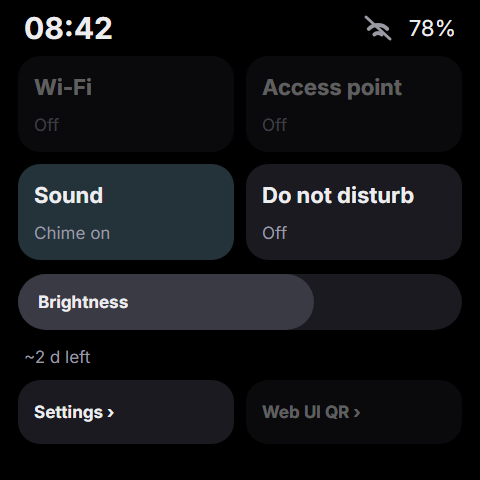
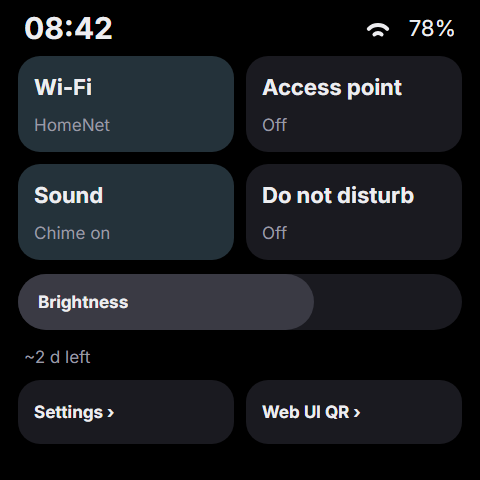
Redraw the quick settings and Home mockups and add Wi-Fi, access point and pairing screens, add the web UI screenshot

diff --git a/design/mockups/screens.html b/design/mockups/screens.html
@@ -61,22 +61,22 @@
 
   <div class="item">
     <div class="dev">
-      <div class="bar"><div class="grab"></div><span class="a tm f30">08:42</span><div class="rt"><svg width="30" height="24" viewBox="0 0 30 24" style="margin-right:16px" fill="none" stroke="#9A9AA4" stroke-linecap="round"><path d="M5.81 12.81 A13 13 0 0 1 24.19 12.81" stroke-width="4"/><path d="M11.46 18.46 A5 5 0 0 1 18.54 18.46" stroke-width="4"/><path d="M3 1 L27 23" stroke-width="3"/></svg><svg width="12" height="18" viewBox="0 0 12 18" style="margin-right:6px"><polygon points="8,0 1,10 7,10" fill="#EDEDF0"/><polygon points="5,7 11,7 4,17" fill="#EDEDF0"/></svg><span class="pct f22">78%</span></div></div>
+      <div class="bar"><div class="grab"></div><span class="a tm f30">08:42</span><div class="rt"><svg width="30" height="24" viewBox="0 0 30 24" style="margin-right:16px" fill="none" stroke="#EDEDF0" stroke-linecap="round"><path d="M5.81 12.81 A13 13 0 0 1 24.19 12.81" stroke-width="4"/><path d="M11.46 18.46 A5 5 0 0 1 18.54 18.46" stroke-width="4"/></svg><svg width="12" height="18" viewBox="0 0 12 18" style="margin-right:6px"><polygon points="8,0 1,10 7,10" fill="#EDEDF0"/><polygon points="5,7 11,7 4,17" fill="#EDEDF0"/></svg><span class="pct f22">78%</span></div></div>
       <div class="tile" style="left:22px;top:64px"><div class="ring" style="left:47px;top:16px;width:116px;height:116px;background:conic-gradient(#4FD1C5 0 62%, #1A1A20 0)"></div><div class="disc" style="left:58px;top:27px;width:94px;height:94px"></div><span class="a f52 c" style="left:0;width:210px;top:45px;color:#4FD1C5">A</span><span class="a c f17 t2" style="left:0;width:210px;top:142px;">2&nbsp;h 14&nbsp;m ago</span></div><div class="tile" style="left:248px;top:64px"><div class="ring" style="left:47px;top:16px;width:116px;height:116px;background:conic-gradient(#F6C453 0 100%, #1A1A20 0)"></div><div class="disc" style="left:58px;top:27px;width:94px;height:94px"></div><span class="a f52 c" style="left:0;width:210px;top:45px;color:#F6C453">V</span><span class="a c f17b" style="left:0;width:210px;top:141.5px;color:#F6C453">Due now</span><div class="bd" style="border-color:#F6C453"></div></div><div class="tile" style="left:22px;top:260px"><div class="ring" style="left:47px;top:16px;width:116px;height:116px;background:conic-gradient(#A78BFA 0 25%, #1A1A20 0)"></div><div class="disc" style="left:58px;top:27px;width:94px;height:94px"></div><span class="a f52 c" style="left:0;width:210px;top:45px;color:#A78BFA">M</span><span class="a c f17 t2" style="left:0;width:210px;top:142px;">as needed</span></div><div class="tile" style="left:248px;top:260px;background:#0B0B0E"><span class="a f44 c t2" style="left:0;width:210px;top:63px">+</span></div>
       <div class="dots"><i class="on"></i><i></i><i></i></div>
       <span class="arrow" style="right:6px;top:220px">← Overview</span>
       <span class="arrow" style="left:170px;top:62px">↓ Quick settings</span>
     </div>
-    <h3>1 · Home</h3><p>Two tiles per row, scrolling vertically. The ring shows the time from the last dose towards the next; a due tile gets a full ring and a coloured outline. The "+" tile opens the form that adds a medicine. The Wi-Fi mark is crossed out because Wi-Fi is not built yet; the bolt shows USB power.</p>
+    <h3>1 · Home</h3><p>Two tiles per row, scrolling vertically. The ring shows the time from the last dose towards the next; a due tile gets a full ring and a coloured outline. The "+" tile opens the form that adds a medicine. The top bar shows two arcs while the device is on a network (grey crossed arcs when Wi-Fi is off, an AP badge in access point mode). The bolt shows USB power.</p>
   </div>
 
   <div class="item">
     <div class="dev">
-      <div class="bar"><span class="a tm f30">08:42</span><div class="rt"><svg width="30" height="24" viewBox="0 0 30 24" style="margin-right:16px" fill="none" stroke="#9A9AA4" stroke-linecap="round"><path d="M5.81 12.81 A13 13 0 0 1 24.19 12.81" stroke-width="4"/><path d="M11.46 18.46 A5 5 0 0 1 18.54 18.46" stroke-width="4"/><path d="M3 1 L27 23" stroke-width="3"/></svg><span class="pct f22">78%</span></div></div>
-      <div class="q" style="left:18px;top:56px;opacity:.4"><span class="a f22b" style="left:16px;top:18px">Wi-Fi</span><span class="a f17 t2" style="left:16px;top:58px">Off</span></div><div class="q" style="left:246px;top:56px;opacity:.4"><span class="a f22b" style="left:16px;top:18px">Access point</span><span class="a f17 t2" style="left:16px;top:58px">Off</span></div><div class="q on" style="left:18px;top:164px;"><span class="a f22b" style="left:16px;top:18px">Sound</span><span class="a f17 t2" style="left:16px;top:58px">Chime on</span></div><div class="q" style="left:246px;top:164px;"><span class="a f22b" style="left:16px;top:18px">Do not disturb</span><span class="a f17 t2" style="left:16px;top:58px">Off</span></div><div class="a" style="left:18px;top:274px;width:444px;height:56px;border-radius:28px;background:#1A1A20"></div><div class="a" style="left:18px;top:274px;width:296px;height:56px;border-radius:28px;background:#3A3A44"></div><span class="a f17b" style="left:38px;top:290.5px">Brightness</span><span class="a f17 t2" style="left:24px;top:346px">~2&nbsp;d left</span><div class="btn" style="left:18px;top:380px;width:216px;height:64px"><span class="f17b" style="margin-left:16px">Settings ›</span></div><div class="btn" style="left:246px;top:380px;width:216px;height:64px;opacity:.4"><span class="f17b" style="margin-left:16px">Web UI QR ›</span></div>
+      <div class="bar"><span class="a tm f30">08:42</span><div class="rt"><svg width="30" height="24" viewBox="0 0 30 24" style="margin-right:16px" fill="none" stroke="#EDEDF0" stroke-linecap="round"><path d="M5.81 12.81 A13 13 0 0 1 24.19 12.81" stroke-width="4"/><path d="M11.46 18.46 A5 5 0 0 1 18.54 18.46" stroke-width="4"/></svg><span class="pct f22">78%</span></div></div>
+      <div class="q on" style="left:18px;top:56px"><span class="a f22b" style="left:16px;top:18px">Wi-Fi</span><span class="a f17 t2" style="left:16px;top:58px">HomeNet</span></div><div class="q" style="left:246px;top:56px"><span class="a f22b" style="left:16px;top:18px">Access point</span><span class="a f17 t2" style="left:16px;top:58px">Off</span></div><div class="q on" style="left:18px;top:164px;"><span class="a f22b" style="left:16px;top:18px">Sound</span><span class="a f17 t2" style="left:16px;top:58px">Chime on</span></div><div class="q" style="left:246px;top:164px;"><span class="a f22b" style="left:16px;top:18px">Do not disturb</span><span class="a f17 t2" style="left:16px;top:58px">Off</span></div><div class="a" style="left:18px;top:274px;width:444px;height:56px;border-radius:28px;background:#1A1A20"></div><div class="a" style="left:18px;top:274px;width:296px;height:56px;border-radius:28px;background:#3A3A44"></div><span class="a f17b" style="left:38px;top:290.5px">Brightness</span><span class="a f17 t2" style="left:24px;top:346px">~2&nbsp;d left</span><div class="btn" style="left:18px;top:380px;width:216px;height:64px"><span class="f17b" style="margin-left:16px">Settings ›</span></div><div class="btn" style="left:246px;top:380px;width:216px;height:64px"><span class="f17b" style="margin-left:16px">Web UI QR ›</span></div>
       <span class="arrow" style="left:170px;bottom:10px">↑ close</span>
     </div>
-    <h3>2 · Quick settings (pull down)</h3><p>Sound and Do not disturb toggle. Wi-Fi, Access point and Web UI QR are dimmed placeholders until Wi-Fi is built. The brightness slider carries its name. The battery line shows only a discharge estimate and is hidden on USB power.</p>
+    <h3>2 · Quick settings (pull down)</h3><p>Wi-Fi and Access point start and stop the radio. A tile is lit while its mode is on and its second line shows the state. Sound and Do not disturb toggle. The brightness slider carries its name. The battery line shows only a discharge estimate and is hidden on USB power. Web UI QR shows the address of the web UI as a QR code.</p>
   </div>
 
   <div class="item">
@@ -127,6 +127,43 @@
       <span class="a f120 t2 c" style="left:0;width:480px;top:161px">08:44</span><span class="a f22 t2 c" style="left:0;width:480px;top:291px">Next: A at 14:00</span><span class="a f17 t2 c" style="left:0;width:480px;top:339px">78% · Wi-Fi off</span>
     </div>
     <h3>8 · Idle / dimmed</h3><p>After 30 s: dim grey clock and next dose, with the battery percent and Wi-Fi state below. The group moves a few pixels each minute against burn-in. Tap to wake. On battery the screen turns off after a further delay.</p>
+  </div>
+
+<div class="item">
+    <div class="dev">
+      <div class="bar"><span class="a tm f30">08:42</span><div class="rt"><span class="f17b" style="width:36px;height:24px;border:1px solid #9A9AA4;border-radius:6px;display:flex;align-items:center;justify-content:center;margin-right:16px">AP</span><svg width="12" height="18" viewBox="0 0 12 18" style="margin-right:6px"><polygon points="8,0 1,10 7,10" fill="#EDEDF0"/><polygon points="5,7 11,7 4,17" fill="#EDEDF0"/></svg><span class="pct f22">78%</span></div></div><div class="q" style="left:18px;top:56px"><span class="a f22b" style="left:16px;top:18px">Wi-Fi</span><span class="a f17 t2" style="left:16px;top:58px">Off</span></div><div class="q on" style="left:246px;top:56px"><span class="a f22b" style="left:16px;top:18px">Access point</span><span class="a f17 t2" style="left:16px;top:58px">On</span></div><div class="q on" style="left:18px;top:164px"><span class="a f22b" style="left:16px;top:18px">Sound</span><span class="a f17 t2" style="left:16px;top:58px">Chime on</span></div><div class="q" style="left:246px;top:164px"><span class="a f22b" style="left:16px;top:18px">Do not disturb</span><span class="a f17 t2" style="left:16px;top:58px">Off</span></div><div class="a" style="left:18px;top:274px;width:444px;height:56px;border-radius:28px;background:#1A1A20"></div><div class="a" style="left:18px;top:274px;width:296px;height:56px;border-radius:28px;background:#3A3A44"></div><span class="a f17b" style="left:38px;top:290.5px">Brightness</span><div class="btn" style="left:18px;top:380px;width:216px;height:64px"><span class="f17b" style="margin-left:16px">Settings ›</span></div><div class="btn" style="left:246px;top:380px;width:216px;height:64px"><span class="f17b" style="margin-left:16px">Web UI QR ›</span></div>
+    </div>
+    <h3>9 · Quick settings, access point on</h3><p>The Access point tile is lit and the top bar shows the AP badge in place of the arcs. The access point runs on USB power unless Keep Wi-Fi on battery is on, so the bolt shows and the battery line is hidden.</p>
+  </div>
+<div class="item">
+    <div class="dev">
+      <div class="bar"><span class="a tm f30">08:42</span><div class="rt"><svg width="30" height="24" viewBox="0 0 30 24" style="margin-right:16px" fill="none" stroke="#EDEDF0" stroke-linecap="round"><path d="M5.81 12.81 A13 13 0 0 1 24.19 12.81" stroke-width="4"/><path d="M11.46 18.46 A5 5 0 0 1 18.54 18.46" stroke-width="4"/></svg><span class="pct f22">78%</span></div></div><span class="a f26" style="left:24px;top:58px;">Wi-Fi</span><div class="a" style="left:18px;top:100px;width:140px;height:66px;border-radius:22px;background:#1A1A20;display:flex;align-items:center;justify-content:center"><span class="f17b">Off</span></div><div class="a" style="left:170px;top:100px;width:140px;height:66px;border-radius:22px;background:#24323A;border:2px solid #EDEDF0;display:flex;align-items:center;justify-content:center"><span class="f17b">Wi-Fi</span></div><div class="a" style="left:322px;top:100px;width:140px;height:66px;border-radius:22px;background:#1A1A20;display:flex;align-items:center;justify-content:center"><span class="f17b">Access point</span></div><span class="a f17 t2" style="left:18px;top:178px;">Saved networks</span><div class="a" style="left:18px;top:212px;width:444px;height:56px;border-radius:22px;background:#121216"></div><span class="a f22" style="left:40px;top:226.0px;">HomeNet</span><span class="a f17" style="right:40px;top:229.0px;color:#7CE38B">Connected</span><span class="a f17 t2" style="left:18px;top:280px;">Add networks in the web UI</span><div class="a" style="left:18px;top:314px;width:444px;height:66px;border-radius:22px;background:#121216"></div><span class="a f22" style="left:40px;top:333.0px;">Access point</span><span class="a f17" style="right:40px;top:336.0px;color:#9A9AA4">Off</span><div class="a" style="left:18px;top:392px;width:444px;height:66px;border-radius:22px;background:#121216"></div><span class="a f22" style="left:40px;top:411.0px;">Web UI address</span><span class="a f17" style="right:40px;top:414.0px;color:#9A9AA4">http://192.168.1.23</span>
+    </div>
+    <h3>10 · Settings, Wi-Fi</h3><p>The mode row (Off, Wi-Fi, Access point) outlines the saved mode. Below it come the saved networks, the access point and the web UI address. Scroll down for the paired browsers with Forget all and the Keep Wi-Fi on battery switch. Networks are added in the web UI.</p>
+  </div>
+<div class="item">
+    <div class="dev">
+      <div class="bar"><span class="a tm f30">08:42</span><div class="rt"><svg width="30" height="24" viewBox="0 0 30 24" style="margin-right:16px" fill="none" stroke="#EDEDF0" stroke-linecap="round"><path d="M5.81 12.81 A13 13 0 0 1 24.19 12.81" stroke-width="4"/><path d="M11.46 18.46 A5 5 0 0 1 18.54 18.46" stroke-width="4"/></svg><span class="pct f22">78%</span></div></div><span class="a f26" style="left:24px;top:58px;">Web UI</span><svg class="a" style="left:118px;top:100px" width="244" height="244" viewBox="0 0 244 244" shape-rendering="crispEdges"><rect width="244" height="244" rx="8" fill="#EDEDF0"/><g transform="translate(12 12) scale(8.8)"><path d="M0 0h1v1h-1zM1 0h1v1h-1zM2 0h1v1h-1zM3 0h1v1h-1zM4 0h1v1h-1zM5 0h1v1h-1zM6 0h1v1h-1zM8 0h1v1h-1zM10 0h1v1h-1zM13 0h1v1h-1zM16 0h1v1h-1zM18 0h1v1h-1zM19 0h1v1h-1zM20 0h1v1h-1zM21 0h1v1h-1zM22 0h1v1h-1zM23 0h1v1h-1zM24 0h1v1h-1zM0 1h1v1h-1zM6 1h1v1h-1zM11 1h1v1h-1zM12 1h1v1h-1zM13 1h1v1h-1zM18 1h1v1h-1zM24 1h1v1h-1zM0 2h1v1h-1zM2 2h1v1h-1zM3 2h1v1h-1zM4 2h1v1h-1zM6 2h1v1h-1zM8 2h1v1h-1zM9 2h1v1h-1zM10 2h1v1h-1zM11 2h1v1h-1zM12 2h1v1h-1zM13 2h1v1h-1zM14 2h1v1h-1zM18 2h1v1h-1zM20 2h1v1h-1zM21 2h1v1h-1zM22 2h1v1h-1zM24 2h1v1h-1zM0 3h1v1h-1zM2 3h1v1h-1zM3 3h1v1h-1zM4 3h1v1h-1zM6 3h1v1h-1zM11 3h1v1h-1zM13 3h1v1h-1zM15 3h1v1h-1zM18 3h1v1h-1zM20 3h1v1h-1zM21 3h1v1h-1zM22 3h1v1h-1zM24 3h1v1h-1zM0 4h1v1h-1zM2 4h1v1h-1zM3 4h1v1h-1zM4 4h1v1h-1zM6 4h1v1h-1zM9 4h1v1h-1zM11 4h1v1h-1zM13 4h1v1h-1zM16 4h1v1h-1zM18 4h1v1h-1zM20 4h1v1h-1zM21 4h1v1h-1zM22 4h1v1h-1zM24 4h1v1h-1zM0 5h1v1h-1zM6 5h1v1h-1zM8 5h1v1h-1zM9 5h1v1h-1zM10 5h1v1h-1zM11 5h1v1h-1zM13 5h1v1h-1zM16 5h1v1h-1zM18 5h1v1h-1zM24 5h1v1h-1zM0 6h1v1h-1zM1 6h1v1h-1zM2 6h1v1h-1zM3 6h1v1h-1zM4 6h1v1h-1zM5 6h1v1h-1zM6 6h1v1h-1zM8 6h1v1h-1zM10 6h1v1h-1zM12 6h1v1h-1zM14 6h1v1h-1zM16 6h1v1h-1zM18 6h1v1h-1zM19 6h1v1h-1zM20 6h1v1h-1zM21 6h1v1h-1zM22 6h1v1h-1zM23 6h1v1h-1zM24 6h1v1h-1zM10 7h1v1h-1zM11 7h1v1h-1zM14 7h1v1h-1zM0 8h1v1h-1zM2 8h1v1h-1zM6 8h1v1h-1zM7 8h1v1h-1zM9 8h1v1h-1zM11 8h1v1h-1zM14 8h1v1h-1zM15 8h1v1h-1zM19 8h1v1h-1zM22 8h1v1h-1zM24 8h1v1h-1zM1 9h1v1h-1zM2 9h1v1h-1zM7 9h1v1h-1zM9 9h1v1h-1zM10 9h1v1h-1zM13 9h1v1h-1zM15 9h1v1h-1zM17 9h1v1h-1zM18 9h1v1h-1zM21 9h1v1h-1zM23 9h1v1h-1zM24 9h1v1h-1zM0 10h1v1h-1zM2 10h1v1h-1zM3 10h1v1h-1zM4 10h1v1h-1zM6 10h1v1h-1zM7 10h1v1h-1zM12 10h1v1h-1zM15 10h1v1h-1zM16 10h1v1h-1zM17 10h1v1h-1zM18 10h1v1h-1zM20 10h1v1h-1zM21 10h1v1h-1zM22 10h1v1h-1zM24 10h1v1h-1zM1 11h1v1h-1zM2 11h1v1h-1zM3 11h1v1h-1zM4 11h1v1h-1zM5 11h1v1h-1zM7 11h1v1h-1zM9 11h1v1h-1zM10 11h1v1h-1zM11 11h1v1h-1zM14 11h1v1h-1zM15 11h1v1h-1zM16 11h1v1h-1zM18 11h1v1h-1zM20 11h1v1h-1zM21 11h1v1h-1zM2 12h1v1h-1zM3 12h1v1h-1zM4 12h1v1h-1zM6 12h1v1h-1zM8 12h1v1h-1zM10 12h1v1h-1zM11 12h1v1h-1zM13 12h1v1h-1zM14 12h1v1h-1zM16 12h1v1h-1zM17 12h1v1h-1zM18 12h1v1h-1zM24 12h1v1h-1zM2 13h1v1h-1zM4 13h1v1h-1zM5 13h1v1h-1zM7 13h1v1h-1zM8 13h1v1h-1zM10 13h1v1h-1zM13 13h1v1h-1zM15 13h1v1h-1zM18 13h1v1h-1zM23 13h1v1h-1zM24 13h1v1h-1zM0 14h1v1h-1zM1 14h1v1h-1zM2 14h1v1h-1zM3 14h1v1h-1zM4 14h1v1h-1zM6 14h1v1h-1zM7 14h1v1h-1zM8 14h1v1h-1zM9 14h1v1h-1zM10 14h1v1h-1zM11 14h1v1h-1zM15 14h1v1h-1zM16 14h1v1h-1zM20 14h1v1h-1zM21 14h1v1h-1zM22 14h1v1h-1zM24 14h1v1h-1zM2 15h1v1h-1zM7 15h1v1h-1zM13 15h1v1h-1zM18 15h1v1h-1zM0 16h1v1h-1zM1 16h1v1h-1zM2 16h1v1h-1zM3 16h1v1h-1zM4 16h1v1h-1zM5 16h1v1h-1zM6 16h1v1h-1zM8 16h1v1h-1zM10 16h1v1h-1zM11 16h1v1h-1zM12 16h1v1h-1zM13 16h1v1h-1zM16 16h1v1h-1zM17 16h1v1h-1zM18 16h1v1h-1zM19 16h1v1h-1zM20 16h1v1h-1zM23 16h1v1h-1zM8 17h1v1h-1zM10 17h1v1h-1zM12 17h1v1h-1zM15 17h1v1h-1zM16 17h1v1h-1zM20 17h1v1h-1zM22 17h1v1h-1zM24 17h1v1h-1zM0 18h1v1h-1zM1 18h1v1h-1zM2 18h1v1h-1zM3 18h1v1h-1zM4 18h1v1h-1zM5 18h1v1h-1zM6 18h1v1h-1zM8 18h1v1h-1zM9 18h1v1h-1zM10 18h1v1h-1zM12 18h1v1h-1zM13 18h1v1h-1zM14 18h1v1h-1zM16 18h1v1h-1zM18 18h1v1h-1zM20 18h1v1h-1zM21 18h1v1h-1zM24 18h1v1h-1zM0 19h1v1h-1zM6 19h1v1h-1zM10 19h1v1h-1zM11 19h1v1h-1zM12 19h1v1h-1zM14 19h1v1h-1zM16 19h1v1h-1zM20 19h1v1h-1zM0 20h1v1h-1zM2 20h1v1h-1zM3 20h1v1h-1zM4 20h1v1h-1zM6 20h1v1h-1zM10 20h1v1h-1zM13 20h1v1h-1zM14 20h1v1h-1zM15 20h1v1h-1zM16 20h1v1h-1zM17 20h1v1h-1zM18 20h1v1h-1zM19 20h1v1h-1zM20 20h1v1h-1zM21 20h1v1h-1zM24 20h1v1h-1zM0 21h1v1h-1zM2 21h1v1h-1zM3 21h1v1h-1zM4 21h1v1h-1zM6 21h1v1h-1zM9 21h1v1h-1zM13 21h1v1h-1zM14 21h1v1h-1zM16 21h1v1h-1zM19 21h1v1h-1zM20 21h1v1h-1zM21 21h1v1h-1zM22 21h1v1h-1zM23 21h1v1h-1zM0 22h1v1h-1zM2 22h1v1h-1zM3 22h1v1h-1zM4 22h1v1h-1zM6 22h1v1h-1zM8 22h1v1h-1zM9 22h1v1h-1zM10 22h1v1h-1zM11 22h1v1h-1zM16 22h1v1h-1zM19 22h1v1h-1zM20 22h1v1h-1zM23 22h1v1h-1zM24 22h1v1h-1zM0 23h1v1h-1zM6 23h1v1h-1zM13 23h1v1h-1zM15 23h1v1h-1zM16 23h1v1h-1zM19 23h1v1h-1zM20 23h1v1h-1zM0 24h1v1h-1zM1 24h1v1h-1zM2 24h1v1h-1zM3 24h1v1h-1zM4 24h1v1h-1zM5 24h1v1h-1zM6 24h1v1h-1zM8 24h1v1h-1zM11 24h1v1h-1zM12 24h1v1h-1zM13 24h1v1h-1zM15 24h1v1h-1zM16 24h1v1h-1zM18 24h1v1h-1zM21 24h1v1h-1zM24 24h1v1h-1z" fill="#000"/></g></svg><span class="a f22 c" style="left:0px;top:354px;width:480px">http://192.168.1.23</span><span class="a f22 c t2" style="left:0px;top:386px;width:480px">hygeia.local</span>
+    </div>
+    <h3>11 · Web UI QR (from quick settings)</h3><p>On a network, the QR code of the web UI with the address and the host name under it.</p>
+  </div>
+<div class="item">
+    <div class="dev">
+      <div class="bar"><span class="a tm f30">08:42</span><div class="rt"><span class="f17b" style="width:36px;height:24px;border:1px solid #9A9AA4;border-radius:6px;display:flex;align-items:center;justify-content:center;margin-right:16px">AP</span><svg width="12" height="18" viewBox="0 0 12 18" style="margin-right:6px"><polygon points="8,0 1,10 7,10" fill="#EDEDF0"/><polygon points="5,7 11,7 4,17" fill="#EDEDF0"/></svg><span class="pct f22">78%</span></div></div><span class="a f26" style="left:24px;top:58px;">Join the device's Wi-Fi</span><svg class="a" style="left:118px;top:100px" width="244" height="244" viewBox="0 0 244 244" shape-rendering="crispEdges"><rect width="244" height="244" rx="8" fill="#EDEDF0"/><g transform="translate(12 12) scale(7.586206896551724)"><path d="M0 0h1v1h-1zM1 0h1v1h-1zM2 0h1v1h-1zM3 0h1v1h-1zM4 0h1v1h-1zM5 0h1v1h-1zM6 0h1v1h-1zM8 0h1v1h-1zM10 0h1v1h-1zM12 0h1v1h-1zM14 0h1v1h-1zM16 0h1v1h-1zM18 0h1v1h-1zM20 0h1v1h-1zM22 0h1v1h-1zM23 0h1v1h-1zM24 0h1v1h-1zM25 0h1v1h-1zM26 0h1v1h-1zM27 0h1v1h-1zM28 0h1v1h-1zM0 1h1v1h-1zM6 1h1v1h-1zM8 1h1v1h-1zM10 1h1v1h-1zM11 1h1v1h-1zM12 1h1v1h-1zM22 1h1v1h-1zM28 1h1v1h-1zM0 2h1v1h-1zM2 2h1v1h-1zM3 2h1v1h-1zM4 2h1v1h-1zM6 2h1v1h-1zM12 2h1v1h-1zM13 2h1v1h-1zM15 2h1v1h-1zM16 2h1v1h-1zM19 2h1v1h-1zM22 2h1v1h-1zM24 2h1v1h-1zM25 2h1v1h-1zM26 2h1v1h-1zM28 2h1v1h-1zM0 3h1v1h-1zM2 3h1v1h-1zM3 3h1v1h-1zM4 3h1v1h-1zM6 3h1v1h-1zM8 3h1v1h-1zM9 3h1v1h-1zM13 3h1v1h-1zM16 3h1v1h-1zM17 3h1v1h-1zM18 3h1v1h-1zM20 3h1v1h-1zM22 3h1v1h-1zM24 3h1v1h-1zM25 3h1v1h-1zM26 3h1v1h-1zM28 3h1v1h-1zM0 4h1v1h-1zM2 4h1v1h-1zM3 4h1v1h-1zM4 4h1v1h-1zM6 4h1v1h-1zM10 4h1v1h-1zM12 4h1v1h-1zM13 4h1v1h-1zM15 4h1v1h-1zM16 4h1v1h-1zM17 4h1v1h-1zM18 4h1v1h-1zM19 4h1v1h-1zM20 4h1v1h-1zM22 4h1v1h-1zM24 4h1v1h-1zM25 4h1v1h-1zM26 4h1v1h-1zM28 4h1v1h-1zM0 5h1v1h-1zM6 5h1v1h-1zM12 5h1v1h-1zM16 5h1v1h-1zM17 5h1v1h-1zM19 5h1v1h-1zM20 5h1v1h-1zM22 5h1v1h-1zM28 5h1v1h-1zM0 6h1v1h-1zM1 6h1v1h-1zM2 6h1v1h-1zM3 6h1v1h-1zM4 6h1v1h-1zM5 6h1v1h-1zM6 6h1v1h-1zM8 6h1v1h-1zM10 6h1v1h-1zM12 6h1v1h-1zM14 6h1v1h-1zM16 6h1v1h-1zM18 6h1v1h-1zM20 6h1v1h-1zM22 6h1v1h-1zM23 6h1v1h-1zM24 6h1v1h-1zM25 6h1v1h-1zM26 6h1v1h-1zM27 6h1v1h-1zM28 6h1v1h-1zM8 7h1v1h-1zM17 7h1v1h-1zM20 7h1v1h-1zM0 8h1v1h-1zM2 8h1v1h-1zM3 8h1v1h-1zM5 8h1v1h-1zM6 8h1v1h-1zM7 8h1v1h-1zM11 8h1v1h-1zM15 8h1v1h-1zM16 8h1v1h-1zM17 8h1v1h-1zM19 8h1v1h-1zM22 8h1v1h-1zM25 8h1v1h-1zM27 8h1v1h-1zM28 8h1v1h-1zM0 9h1v1h-1zM3 9h1v1h-1zM5 9h1v1h-1zM7 9h1v1h-1zM8 9h1v1h-1zM10 9h1v1h-1zM11 9h1v1h-1zM13 9h1v1h-1zM14 9h1v1h-1zM16 9h1v1h-1zM17 9h1v1h-1zM20 9h1v1h-1zM22 9h1v1h-1zM24 9h1v1h-1zM26 9h1v1h-1zM27 9h1v1h-1zM1 10h1v1h-1zM6 10h1v1h-1zM7 10h1v1h-1zM8 10h1v1h-1zM10 10h1v1h-1zM13 10h1v1h-1zM14 10h1v1h-1zM16 10h1v1h-1zM22 10h1v1h-1zM24 10h1v1h-1zM25 10h1v1h-1zM26 10h1v1h-1zM27 10h1v1h-1zM2 11h1v1h-1zM5 11h1v1h-1zM7 11h1v1h-1zM8 11h1v1h-1zM9 11h1v1h-1zM10 11h1v1h-1zM13 11h1v1h-1zM14 11h1v1h-1zM16 11h1v1h-1zM18 11h1v1h-1zM19 11h1v1h-1zM20 11h1v1h-1zM25 11h1v1h-1zM3 12h1v1h-1zM6 12h1v1h-1zM7 12h1v1h-1zM10 12h1v1h-1zM16 12h1v1h-1zM19 12h1v1h-1zM23 12h1v1h-1zM24 12h1v1h-1zM25 12h1v1h-1zM26 12h1v1h-1zM3 13h1v1h-1zM4 13h1v1h-1zM8 13h1v1h-1zM11 13h1v1h-1zM12 13h1v1h-1zM13 13h1v1h-1zM14 13h1v1h-1zM15 13h1v1h-1zM17 13h1v1h-1zM18 13h1v1h-1zM19 13h1v1h-1zM20 13h1v1h-1zM22 13h1v1h-1zM0 14h1v1h-1zM1 14h1v1h-1zM2 14h1v1h-1zM3 14h1v1h-1zM6 14h1v1h-1zM11 14h1v1h-1zM12 14h1v1h-1zM14 14h1v1h-1zM16 14h1v1h-1zM19 14h1v1h-1zM20 14h1v1h-1zM23 14h1v1h-1zM24 14h1v1h-1zM25 14h1v1h-1zM26 14h1v1h-1zM27 14h1v1h-1zM28 14h1v1h-1zM0 15h1v1h-1zM4 15h1v1h-1zM7 15h1v1h-1zM8 15h1v1h-1zM9 15h1v1h-1zM11 15h1v1h-1zM13 15h1v1h-1zM15 15h1v1h-1zM18 15h1v1h-1zM21 15h1v1h-1zM25 15h1v1h-1zM2 16h1v1h-1zM3 16h1v1h-1zM4 16h1v1h-1zM5 16h1v1h-1zM6 16h1v1h-1zM8 16h1v1h-1zM11 16h1v1h-1zM15 16h1v1h-1zM16 16h1v1h-1zM20 16h1v1h-1zM21 16h1v1h-1zM24 16h1v1h-1zM25 16h1v1h-1zM26 16h1v1h-1zM28 16h1v1h-1zM2 17h1v1h-1zM3 17h1v1h-1zM4 17h1v1h-1zM9 17h1v1h-1zM10 17h1v1h-1zM11 17h1v1h-1zM13 17h1v1h-1zM15 17h1v1h-1zM17 17h1v1h-1zM18 17h1v1h-1zM20 17h1v1h-1zM21 17h1v1h-1zM28 17h1v1h-1zM0 18h1v1h-1zM4 18h1v1h-1zM6 18h1v1h-1zM10 18h1v1h-1zM12 18h1v1h-1zM15 18h1v1h-1zM16 18h1v1h-1zM17 18h1v1h-1zM18 18h1v1h-1zM20 18h1v1h-1zM21 18h1v1h-1zM22 18h1v1h-1zM23 18h1v1h-1zM24 18h1v1h-1zM2 19h1v1h-1zM3 19h1v1h-1zM5 19h1v1h-1zM8 19h1v1h-1zM10 19h1v1h-1zM12 19h1v1h-1zM17 19h1v1h-1zM20 19h1v1h-1zM21 19h1v1h-1zM23 19h1v1h-1zM26 19h1v1h-1zM27 19h1v1h-1zM28 19h1v1h-1zM1 20h1v1h-1zM6 20h1v1h-1zM7 20h1v1h-1zM9 20h1v1h-1zM11 20h1v1h-1zM13 20h1v1h-1zM17 20h1v1h-1zM18 20h1v1h-1zM20 20h1v1h-1zM21 20h1v1h-1zM22 20h1v1h-1zM23 20h1v1h-1zM24 20h1v1h-1zM26 20h1v1h-1zM27 20h1v1h-1zM28 20h1v1h-1zM8 21h1v1h-1zM9 21h1v1h-1zM12 21h1v1h-1zM13 21h1v1h-1zM14 21h1v1h-1zM16 21h1v1h-1zM17 21h1v1h-1zM18 21h1v1h-1zM20 21h1v1h-1zM24 21h1v1h-1zM26 21h1v1h-1zM0 22h1v1h-1zM1 22h1v1h-1zM2 22h1v1h-1zM3 22h1v1h-1zM4 22h1v1h-1zM5 22h1v1h-1zM6 22h1v1h-1zM8 22h1v1h-1zM10 22h1v1h-1zM13 22h1v1h-1zM16 22h1v1h-1zM19 22h1v1h-1zM20 22h1v1h-1zM22 22h1v1h-1zM24 22h1v1h-1zM27 22h1v1h-1zM0 23h1v1h-1zM6 23h1v1h-1zM8 23h1v1h-1zM10 23h1v1h-1zM11 23h1v1h-1zM12 23h1v1h-1zM15 23h1v1h-1zM16 23h1v1h-1zM18 23h1v1h-1zM20 23h1v1h-1zM24 23h1v1h-1zM27 23h1v1h-1zM0 24h1v1h-1zM2 24h1v1h-1zM3 24h1v1h-1zM4 24h1v1h-1zM6 24h1v1h-1zM9 24h1v1h-1zM10 24h1v1h-1zM14 24h1v1h-1zM15 24h1v1h-1zM16 24h1v1h-1zM17 24h1v1h-1zM18 24h1v1h-1zM20 24h1v1h-1zM21 24h1v1h-1zM22 24h1v1h-1zM23 24h1v1h-1zM24 24h1v1h-1zM25 24h1v1h-1zM0 25h1v1h-1zM2 25h1v1h-1zM3 25h1v1h-1zM4 25h1v1h-1zM6 25h1v1h-1zM8 25h1v1h-1zM12 25h1v1h-1zM13 25h1v1h-1zM14 25h1v1h-1zM15 25h1v1h-1zM17 25h1v1h-1zM18 25h1v1h-1zM19 25h1v1h-1zM20 25h1v1h-1zM21 25h1v1h-1zM23 25h1v1h-1zM25 25h1v1h-1zM26 25h1v1h-1zM28 25h1v1h-1zM0 26h1v1h-1zM2 26h1v1h-1zM3 26h1v1h-1zM4 26h1v1h-1zM6 26h1v1h-1zM8 26h1v1h-1zM9 26h1v1h-1zM11 26h1v1h-1zM13 26h1v1h-1zM14 26h1v1h-1zM17 26h1v1h-1zM18 26h1v1h-1zM23 26h1v1h-1zM26 26h1v1h-1zM28 26h1v1h-1zM0 27h1v1h-1zM6 27h1v1h-1zM9 27h1v1h-1zM10 27h1v1h-1zM11 27h1v1h-1zM12 27h1v1h-1zM13 27h1v1h-1zM15 27h1v1h-1zM16 27h1v1h-1zM20 27h1v1h-1zM24 27h1v1h-1zM25 27h1v1h-1zM27 27h1v1h-1zM0 28h1v1h-1zM1 28h1v1h-1zM2 28h1v1h-1zM3 28h1v1h-1zM4 28h1v1h-1zM5 28h1v1h-1zM6 28h1v1h-1zM8 28h1v1h-1zM11 28h1v1h-1zM12 28h1v1h-1zM13 28h1v1h-1zM14 28h1v1h-1zM15 28h1v1h-1zM18 28h1v1h-1zM19 28h1v1h-1zM20 28h1v1h-1zM21 28h1v1h-1zM22 28h1v1h-1zM23 28h1v1h-1zM25 28h1v1h-1zM26 28h1v1h-1zM27 28h1v1h-1z" fill="#000"/></g></svg><span class="a f22 c" style="left:0px;top:350px;width:480px">Name hygeia-A1B2</span><span class="a f22 c" style="left:0px;top:380px;width:480px">Password k7m3qx9hzt</span><div class="btn" style="left:96px;top:412px;width:288px;height:66px;justify-content:center"><span class="f22b">Next</span></div>
+    </div>
+    <h3>12 · Access point, join</h3><p>The first page after the Access point tile starts the access point: a Wi-Fi QR code with the name and password in text. Next goes to the address page.</p>
+  </div>
+<div class="item">
+    <div class="dev">
+      <div class="bar"><span class="a tm f30">08:42</span><div class="rt"><span class="f17b" style="width:36px;height:24px;border:1px solid #9A9AA4;border-radius:6px;display:flex;align-items:center;justify-content:center;margin-right:16px">AP</span><svg width="12" height="18" viewBox="0 0 12 18" style="margin-right:6px"><polygon points="8,0 1,10 7,10" fill="#EDEDF0"/><polygon points="5,7 11,7 4,17" fill="#EDEDF0"/></svg><span class="pct f22">78%</span></div></div><span class="a f26" style="left:24px;top:58px;">Then open</span><svg class="a" style="left:118px;top:100px" width="244" height="244" viewBox="0 0 244 244" shape-rendering="crispEdges"><rect width="244" height="244" rx="8" fill="#EDEDF0"/><g transform="translate(12 12) scale(8.8)"><path d="M0 0h1v1h-1zM1 0h1v1h-1zM2 0h1v1h-1zM3 0h1v1h-1zM4 0h1v1h-1zM5 0h1v1h-1zM6 0h1v1h-1zM9 0h1v1h-1zM10 0h1v1h-1zM12 0h1v1h-1zM13 0h1v1h-1zM16 0h1v1h-1zM18 0h1v1h-1zM19 0h1v1h-1zM20 0h1v1h-1zM21 0h1v1h-1zM22 0h1v1h-1zM23 0h1v1h-1zM24 0h1v1h-1zM0 1h1v1h-1zM6 1h1v1h-1zM8 1h1v1h-1zM9 1h1v1h-1zM10 1h1v1h-1zM18 1h1v1h-1zM24 1h1v1h-1zM0 2h1v1h-1zM2 2h1v1h-1zM3 2h1v1h-1zM4 2h1v1h-1zM6 2h1v1h-1zM8 2h1v1h-1zM9 2h1v1h-1zM10 2h1v1h-1zM12 2h1v1h-1zM14 2h1v1h-1zM16 2h1v1h-1zM18 2h1v1h-1zM20 2h1v1h-1zM21 2h1v1h-1zM22 2h1v1h-1zM24 2h1v1h-1zM0 3h1v1h-1zM2 3h1v1h-1zM3 3h1v1h-1zM4 3h1v1h-1zM6 3h1v1h-1zM8 3h1v1h-1zM9 3h1v1h-1zM11 3h1v1h-1zM13 3h1v1h-1zM14 3h1v1h-1zM15 3h1v1h-1zM16 3h1v1h-1zM18 3h1v1h-1zM20 3h1v1h-1zM21 3h1v1h-1zM22 3h1v1h-1zM24 3h1v1h-1zM0 4h1v1h-1zM2 4h1v1h-1zM3 4h1v1h-1zM4 4h1v1h-1zM6 4h1v1h-1zM10 4h1v1h-1zM13 4h1v1h-1zM18 4h1v1h-1zM20 4h1v1h-1zM21 4h1v1h-1zM22 4h1v1h-1zM24 4h1v1h-1zM0 5h1v1h-1zM6 5h1v1h-1zM9 5h1v1h-1zM10 5h1v1h-1zM12 5h1v1h-1zM13 5h1v1h-1zM14 5h1v1h-1zM18 5h1v1h-1zM24 5h1v1h-1zM0 6h1v1h-1zM1 6h1v1h-1zM2 6h1v1h-1zM3 6h1v1h-1zM4 6h1v1h-1zM5 6h1v1h-1zM6 6h1v1h-1zM8 6h1v1h-1zM10 6h1v1h-1zM12 6h1v1h-1zM14 6h1v1h-1zM16 6h1v1h-1zM18 6h1v1h-1zM19 6h1v1h-1zM20 6h1v1h-1zM21 6h1v1h-1zM22 6h1v1h-1zM23 6h1v1h-1zM24 6h1v1h-1zM8 7h1v1h-1zM11 7h1v1h-1zM14 7h1v1h-1zM16 7h1v1h-1zM0 8h1v1h-1zM6 8h1v1h-1zM8 8h1v1h-1zM10 8h1v1h-1zM15 8h1v1h-1zM16 8h1v1h-1zM17 8h1v1h-1zM18 8h1v1h-1zM21 8h1v1h-1zM22 8h1v1h-1zM23 8h1v1h-1zM0 9h1v1h-1zM8 9h1v1h-1zM9 9h1v1h-1zM11 9h1v1h-1zM13 9h1v1h-1zM14 9h1v1h-1zM15 9h1v1h-1zM16 9h1v1h-1zM17 9h1v1h-1zM20 9h1v1h-1zM21 9h1v1h-1zM22 9h1v1h-1zM23 9h1v1h-1zM1 10h1v1h-1zM3 10h1v1h-1zM5 10h1v1h-1zM6 10h1v1h-1zM7 10h1v1h-1zM8 10h1v1h-1zM9 10h1v1h-1zM13 10h1v1h-1zM14 10h1v1h-1zM15 10h1v1h-1zM18 10h1v1h-1zM19 10h1v1h-1zM21 10h1v1h-1zM23 10h1v1h-1zM24 10h1v1h-1zM0 11h1v1h-1zM1 11h1v1h-1zM7 11h1v1h-1zM10 11h1v1h-1zM12 11h1v1h-1zM13 11h1v1h-1zM15 11h1v1h-1zM16 11h1v1h-1zM20 11h1v1h-1zM21 11h1v1h-1zM24 11h1v1h-1zM2 12h1v1h-1zM3 12h1v1h-1zM4 12h1v1h-1zM6 12h1v1h-1zM7 12h1v1h-1zM9 12h1v1h-1zM12 12h1v1h-1zM13 12h1v1h-1zM16 12h1v1h-1zM17 12h1v1h-1zM18 12h1v1h-1zM24 12h1v1h-1zM0 13h1v1h-1zM1 13h1v1h-1zM2 13h1v1h-1zM4 13h1v1h-1zM5 13h1v1h-1zM8 13h1v1h-1zM10 13h1v1h-1zM15 13h1v1h-1zM23 13h1v1h-1zM0 14h1v1h-1zM2 14h1v1h-1zM3 14h1v1h-1zM5 14h1v1h-1zM6 14h1v1h-1zM7 14h1v1h-1zM8 14h1v1h-1zM9 14h1v1h-1zM10 14h1v1h-1zM11 14h1v1h-1zM12 14h1v1h-1zM15 14h1v1h-1zM17 14h1v1h-1zM19 14h1v1h-1zM21 14h1v1h-1zM23 14h1v1h-1zM24 14h1v1h-1zM0 15h1v1h-1zM2 15h1v1h-1zM3 15h1v1h-1zM4 15h1v1h-1zM8 15h1v1h-1zM11 15h1v1h-1zM16 15h1v1h-1zM20 15h1v1h-1zM22 15h1v1h-1zM24 15h1v1h-1zM0 16h1v1h-1zM2 16h1v1h-1zM3 16h1v1h-1zM4 16h1v1h-1zM5 16h1v1h-1zM6 16h1v1h-1zM7 16h1v1h-1zM8 16h1v1h-1zM9 16h1v1h-1zM11 16h1v1h-1zM16 16h1v1h-1zM17 16h1v1h-1zM18 16h1v1h-1zM19 16h1v1h-1zM20 16h1v1h-1zM22 16h1v1h-1zM8 17h1v1h-1zM9 17h1v1h-1zM12 17h1v1h-1zM13 17h1v1h-1zM14 17h1v1h-1zM15 17h1v1h-1zM16 17h1v1h-1zM20 17h1v1h-1zM22 17h1v1h-1zM0 18h1v1h-1zM1 18h1v1h-1zM2 18h1v1h-1zM3 18h1v1h-1zM4 18h1v1h-1zM5 18h1v1h-1zM6 18h1v1h-1zM9 18h1v1h-1zM11 18h1v1h-1zM16 18h1v1h-1zM18 18h1v1h-1zM20 18h1v1h-1zM21 18h1v1h-1zM24 18h1v1h-1zM0 19h1v1h-1zM6 19h1v1h-1zM9 19h1v1h-1zM12 19h1v1h-1zM13 19h1v1h-1zM16 19h1v1h-1zM20 19h1v1h-1zM23 19h1v1h-1zM0 20h1v1h-1zM2 20h1v1h-1zM3 20h1v1h-1zM4 20h1v1h-1zM6 20h1v1h-1zM9 20h1v1h-1zM10 20h1v1h-1zM12 20h1v1h-1zM14 20h1v1h-1zM15 20h1v1h-1zM16 20h1v1h-1zM17 20h1v1h-1zM18 20h1v1h-1zM19 20h1v1h-1zM20 20h1v1h-1zM21 20h1v1h-1zM22 20h1v1h-1zM24 20h1v1h-1zM0 21h1v1h-1zM2 21h1v1h-1zM3 21h1v1h-1zM4 21h1v1h-1zM6 21h1v1h-1zM9 21h1v1h-1zM14 21h1v1h-1zM18 21h1v1h-1zM19 21h1v1h-1zM21 21h1v1h-1zM23 21h1v1h-1zM24 21h1v1h-1zM0 22h1v1h-1zM2 22h1v1h-1zM3 22h1v1h-1zM4 22h1v1h-1zM6 22h1v1h-1zM11 22h1v1h-1zM12 22h1v1h-1zM17 22h1v1h-1zM22 22h1v1h-1zM24 22h1v1h-1zM0 23h1v1h-1zM6 23h1v1h-1zM10 23h1v1h-1zM11 23h1v1h-1zM14 23h1v1h-1zM15 23h1v1h-1zM16 23h1v1h-1zM18 23h1v1h-1zM19 23h1v1h-1zM20 23h1v1h-1zM24 23h1v1h-1zM0 24h1v1h-1zM1 24h1v1h-1zM2 24h1v1h-1zM3 24h1v1h-1zM4 24h1v1h-1zM5 24h1v1h-1zM6 24h1v1h-1zM8 24h1v1h-1zM10 24h1v1h-1zM13 24h1v1h-1zM14 24h1v1h-1zM15 24h1v1h-1zM16 24h1v1h-1zM18 24h1v1h-1zM21 24h1v1h-1zM24 24h1v1h-1z" fill="#000"/></g></svg><span class="a f22 c" style="left:0px;top:354px;width:480px">http://192.168.4.1/</span><div class="btn" style="left:96px;top:412px;width:288px;height:66px;justify-content:center"><span class="f22b">Done</span></div>
+    </div>
+    <h3>13 · Access point, open</h3><p>The QR code of the web UI address in access point mode.</p>
+  </div>
+<div class="item">
+    <div class="dev">
+      <span class="a f26 c" style="left:0px;top:86px;width:480px">Pair a browser</span><span class="a f52 c" style="left:0px;top:134px;width:480px">482 913</span><span class="a f17 t2 c" style="left:0px;top:224px;width:480px">Type this code in the browser</span><span class="a f17 t2 c" style="left:0px;top:256px;width:480px">96 s left</span><div class="btn" style="left:18px;top:356px;width:444px;height:66px;justify-content:center"><span class="f22b">Cancel</span></div>
+    </div>
+    <h3>14 · Pair a browser</h3><p>Shown over everything when a browser asks to pair. The code is valid for 120 seconds. Cancel ends it.</p>
   </div>
 
 </div>
